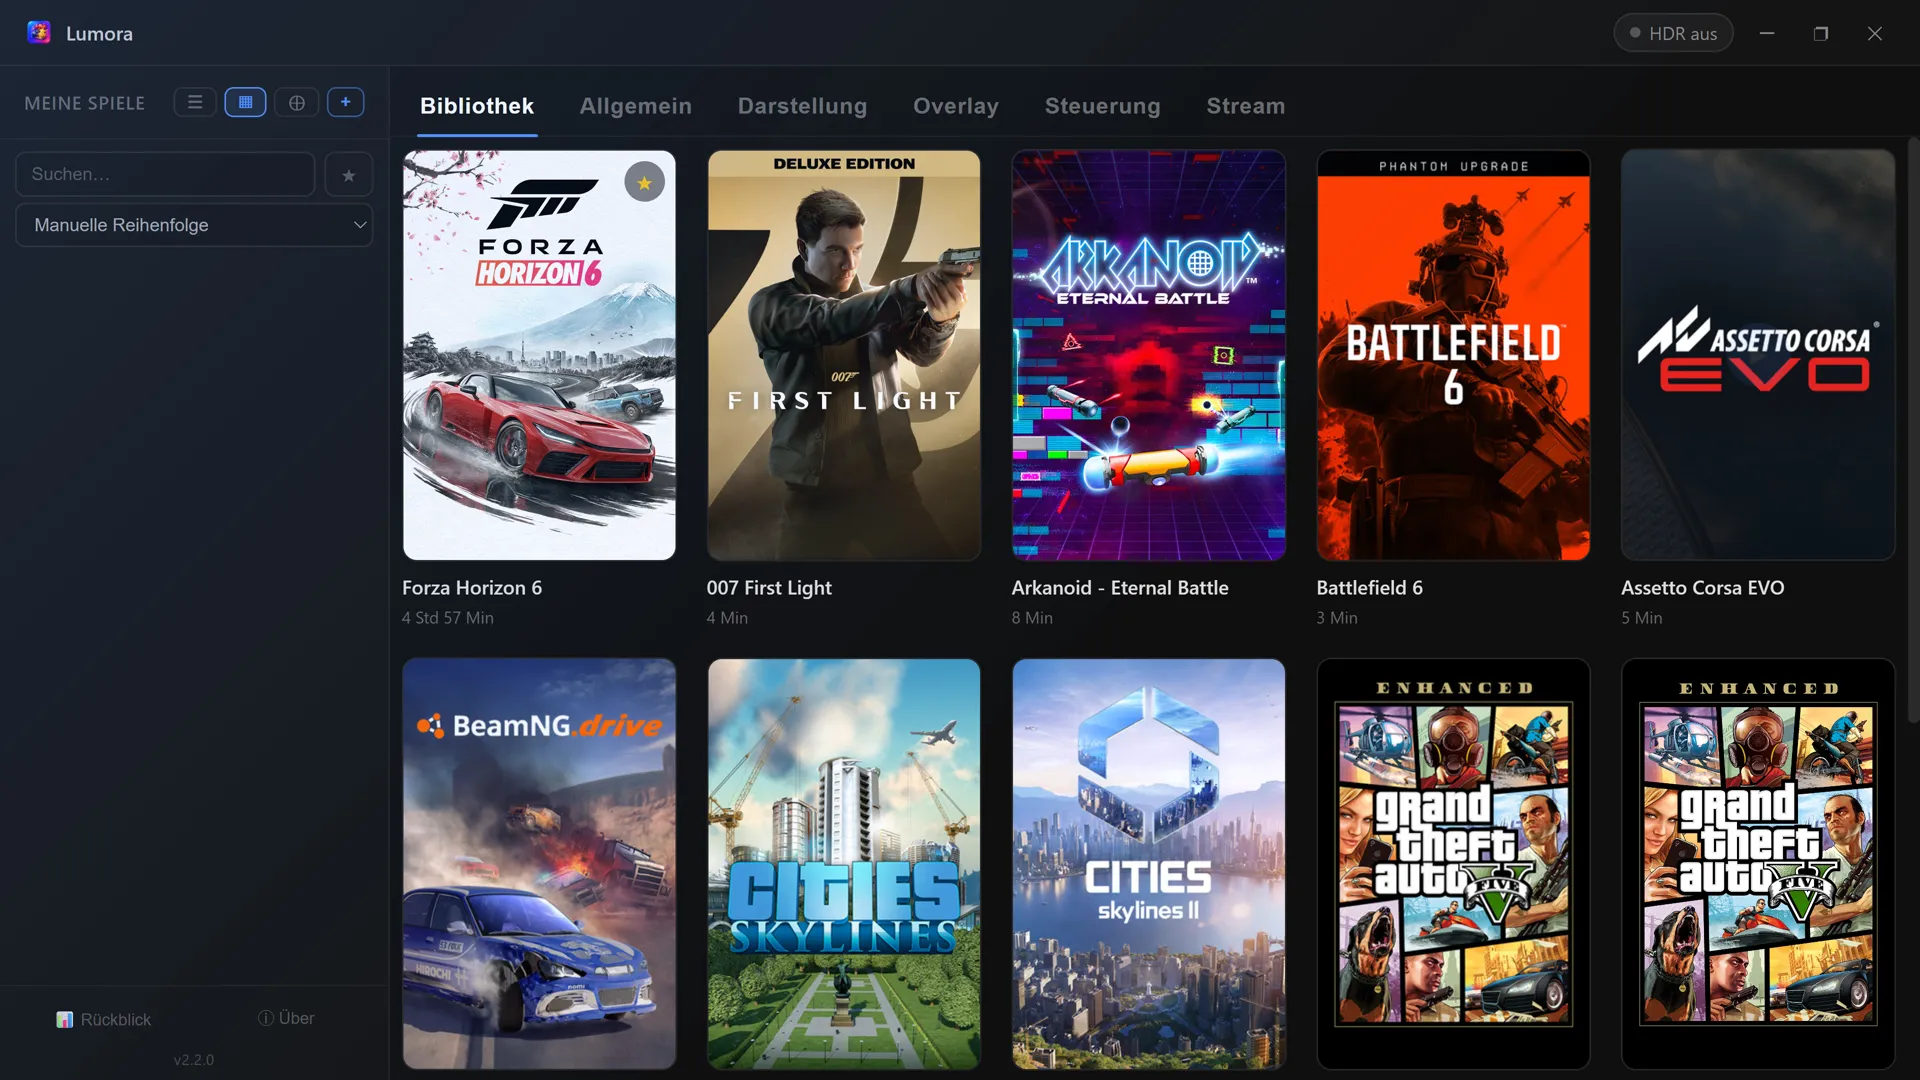
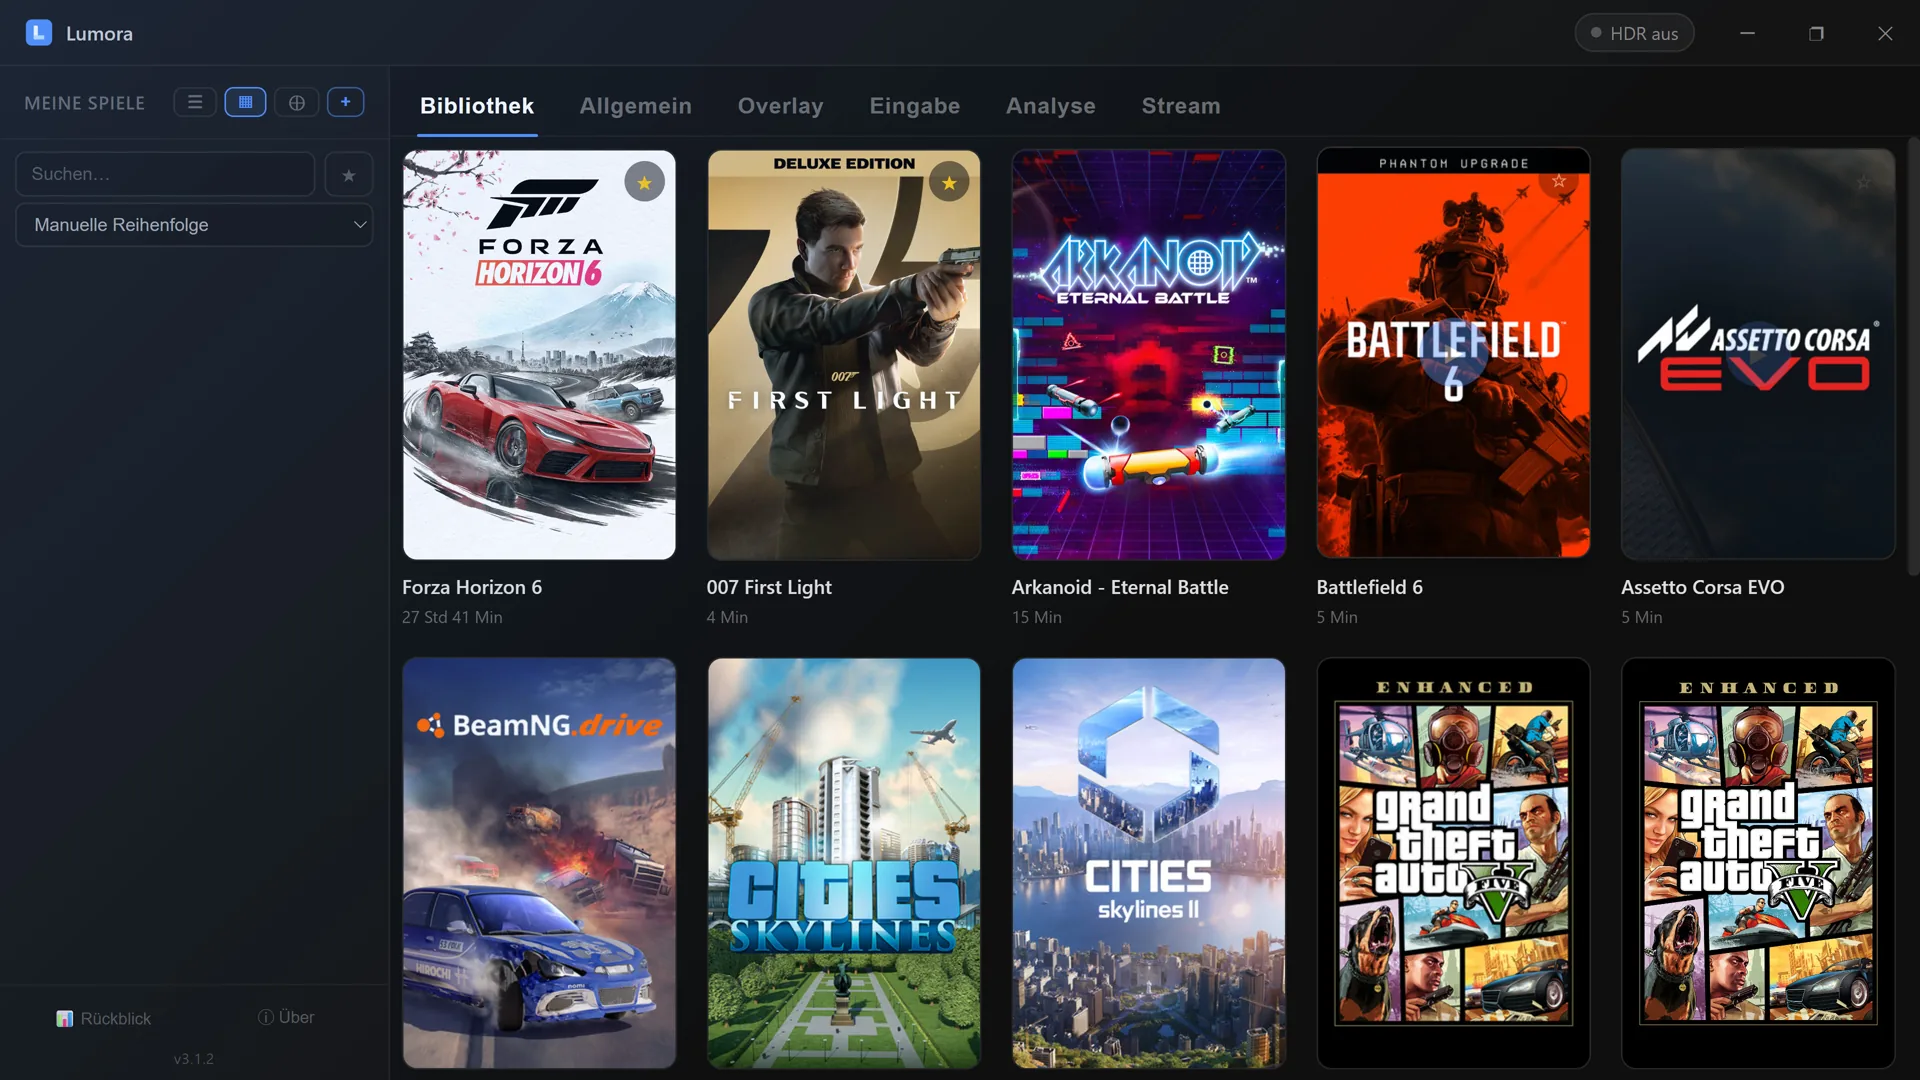
Website: alle Screenshots gegen aktuelle (3.1.2) ausgetauscht
Quellen: Lumora_neue_screenshots/, 3840x2160 -> 1920 breit als WebP
(ffmpeg/libwebp, Qualitaet 82). Dateigroessen bleiben im Rahmen der
bisherigen (136-262 KB).

Zuordnung:
  1.webp            <- 1.jpg    Listenansicht
  2.webp            <- 2.jpg    Cover-Ansicht
  3.webp            <- osd.jpg  Gaming-OSD, jetzt ueber einem LAUFENDEN
                                Spiel statt ueber der Bibliothek
  stream.webp       <- 6.jpg    Stream-Tab mit Live-Vorschau
  stream-stats.webp <- 7.jpg    Stream-Statistik
  analyse.webp      <- 5.jpg    Analyse-Bericht (NEU, fuellt den seit
                                der Seitenerstellung offenen Platzhalter
                                auf ruckler-analyse.html DE+EN)
  screenshot.png    <- 1.jpg    Vorschaubild fuer geteilte Links

Mitgezogen, weil die neuen Bilder durchgehend 16:9 sind (die alten
waren teils beschnitten):
- Bildmasse im HTML: 1079->1080 (Startseite), 1252/1254->1080
  (Streaming-Seite) - sonst haette der Platzhalter beim Laden
  gesprungen.
- og:image-Masse 2799x2130 -> 1200x676; das alte Vorschaubild hatte ein
  ungewoehnliches 1.31:1-Format, das neue passt zur ueblichen Kachel.
- OSD-Bildunterschrift und Alt-Text: "hier ueber der Bibliothek" stimmte
  nicht mehr, das neue Bild zeigt ein echtes Spiel (DE+EN).

Verifiziert im Browser gegen einen lokalen Server: alle sieben Dateien
liefern 200, alle Bildverweise auf Start-, Streaming- und Ruckler-Seite
[…]

diff --git a/website/index.html b/website/index.html
@@ -47,8 +47,8 @@
 
   <!-- og:image -->
   <meta property="og:image"        content="https://lumora-streaming.de/screenshot.png">
-  <meta property="og:image:width"  content="2799">
-  <meta property="og:image:height" content="2130">
+  <meta property="og:image:width"  content="1200">
+  <meta property="og:image:height" content="676">
   <meta property="og:image:alt"    content="Lumora – Spiele-Launcher mit Gaming-OSD und Streaming">
 
   <!-- Schema.org – SoftwareApplication (wird von Google als Rich Result angezeigt) -->
@@ -827,7 +827,7 @@
       </button>
     </div>
     <div class="screenshot-wrap" onclick="openLightbox()">
-      <img id="shot" src="1.webp" width="1920" height="1079" decoding="async" alt="Lumora Game-Launcher – Listenansicht mit allen Spielen aus Steam, Epic, GOG &amp; Co., HDR-Schalter und Game-Streaming" class="screenshot-img">
+      <img id="shot" src="1.webp" width="1920" height="1080" decoding="async" alt="Lumora Game-Launcher – Listenansicht mit allen Spielen aus Steam, Epic, GOG &amp; Co., HDR-Schalter und Game-Streaming" class="screenshot-img">
     </div>
     <p class="view-caption" id="viewCaption">Listenansicht – Details, Beschreibung &amp; HDR-Schalter pro Spiel</p>
     <p class="screenshot-tap-hint">Tippen zum Vergrößern</p>
@@ -1693,7 +1693,7 @@
   const VIEWS = {
     list:  { img: '1.webp', alt: 'Lumora – Listenansicht', cap: 'Listenansicht – Details, Beschreibung &amp; HDR-Schalter pro Spiel' },
     cover: { img: '2.webp', alt: 'Lumora – Cover-Ansicht', cap: 'Cover-Ansicht – deine Bibliothek als Raster aus Spiel-Covern' },
-    osd:   { img: '3.webp', alt: 'Lumora – Gaming-OSD mit GPU-, CPU- und FPS-Werten', cap: 'Gaming-OSD – GPU, CPU &amp; FPS live über dem Spiel, hier über der Bibliothek (echte Werte)' },
+    osd:   { img: '3.webp', alt: 'Lumora – Gaming-OSD mit GPU-, CPU- und FPS-Werten über einem laufenden Spiel', cap: 'Gaming-OSD – GPU, CPU &amp; FPS live über dem laufenden Spiel (echte Werte)' },
     streaming: { img: 'stream.webp', alt: 'Lumora – Stream-Tab mit Live-Vorschau, Teilen-Link und „Freunde dazuholen"', cap: 'Stream-Tab – Live-Vorschau, Link teilen &amp; „Freunde dazuholen"' }
   };
   function setView(v) {

diff --git a/website/streaming.html b/website/streaming.html
@@ -176,7 +176,7 @@
     <a class="cta" href="download.php">⬇ Lumora kostenlos laden</a>
     <p class="muted">Für Windows 10 &amp; 11 · keine Registrierung · Open Source</p>
 
-    <img class="shot" src="stream.webp" width="1920" height="1252" decoding="async" alt="Lumora Stream-Tab: Live-Vorschau des Spiels, Teilen-Link und „Freunde dazuholen" beim Teilen des Bildschirms">
+    <img class="shot" src="stream.webp" width="1920" height="1080" decoding="async" alt="Lumora Stream-Tab: Live-Vorschau des Spiels, Teilen-Link und „Freunde dazuholen" beim Teilen des Bildschirms">
 
     <h2>So einfach geht's</h2>
     <ol class="steps">
@@ -199,7 +199,7 @@
 
     <h2>Nach dem Stream: deine Zahlen</h2>
     <p>Sobald du den Stream beendest, zeigt Lumora dir eine kurze Zusammenfassung: wie lange du live warst, wie viele Leute zugeschaut haben, wie viele Videodaten übertragen wurden und mit welcher Qualität du gestreamt hast.</p>
-    <img class="shot" src="stream-stats.webp" width="1920" height="1254" loading="lazy" decoding="async" alt="Lumora Stream-Statistik nach dem Beenden: Dauer, Zuschauer gleichzeitig und gesamt, übertragene Videodaten, durchschnittliche Bitrate und Qualität">
+    <img class="shot" src="stream-stats.webp" width="1920" height="1080" loading="lazy" decoding="async" alt="Lumora Stream-Statistik nach dem Beenden: Dauer, Zuschauer gleichzeitig und gesamt, übertragene Videodaten, durchschnittliche Bitrate und Qualität">
 
     <h2>Gruppen: Zockt zusammen, schaut euch gegenseitig zu</h2>
     <p>Ein Klick auf „Freunde dazuholen" am laufenden Stream erstellt die Gruppe und kopiert den Einladungslink. Wer ihn mit Lumora öffnet, ist per „Mit Lumora mitstreamen" sofort dabei – der eigene Stream startet automatisch mit, und eigene Rechner im selben Netzwerk erkennen die Gruppe sogar ganz von selbst. Kein Code-Abtippen. Wer keinen PC hat, öffnet denselben Link im Browser (funktioniert auch auf dem iPhone) und sieht alle Streams gleichzeitig im Raster: Vollbild oder Spotlight per Klick, Ton und Lautstärke pro Person, das ganze Grid als Bild-in-Bild, Live-Statistik zuschaltbar. Die Gruppe hängt an niemandem – wer geht, geht; für alle anderen läuft alles ununterbrochen weiter.</p>

diff --git a/website/en/index.html b/website/en/index.html
@@ -34,8 +34,8 @@
 
   <!-- og:image -->
   <meta property="og:image"        content="https://lumora-streaming.de/screenshot.png">
-  <meta property="og:image:width"  content="2799">
-  <meta property="og:image:height" content="2130">
+  <meta property="og:image:width"  content="1200">
+  <meta property="og:image:height" content="676">
   <meta property="og:image:alt"    content="Lumora – game launcher with gaming OSD and streaming">
 
   <!-- Schema.org – SoftwareApplication (wird von Google als Rich Result angezeigt) -->
@@ -814,7 +814,7 @@
       </button>
     </div>
     <div class="screenshot-wrap" onclick="openLightbox()">
-      <img id="shot" src="../1.webp" width="1920" height="1079" decoding="async" alt="Lumora game launcher – list view with all games from Steam, Epic, GOG &amp; more, HDR toggle and game streaming" class="screenshot-img">
+      <img id="shot" src="../1.webp" width="1920" height="1080" decoding="async" alt="Lumora game launcher – list view with all games from Steam, Epic, GOG &amp; more, HDR toggle and game streaming" class="screenshot-img">
     </div>
     <p class="view-caption" id="viewCaption">List view – details, description &amp; per-game HDR toggle</p>
     <p class="screenshot-tap-hint">Tap to enlarge</p>
@@ -1664,7 +1664,7 @@
   const VIEWS = {
     list:  { img: '../1.webp', alt: 'Lumora – Listenansicht', cap: 'List view – details, description &amp; per-game HDR toggle' },
     cover: { img: '../2.webp', alt: 'Lumora – Cover view', cap: 'Cover view – your library as a grid of game covers' },
-    osd:   { img: '../3.webp', alt: 'Lumora – Gaming OSD with GPU, CPU and FPS values', cap: 'Gaming OSD – GPU, CPU &amp; FPS live over the game, here over the library (real values)' },
+    osd:   { img: '../3.webp', alt: 'Lumora – Gaming OSD with GPU, CPU and FPS values over a running game', cap: 'Gaming OSD – GPU, CPU &amp; FPS live over the running game (real values)' },
     streaming: { img: '../stream.webp', alt: 'Lumora – Stream tab with live preview, share link and “Invite friends”', cap: 'Stream tab – live preview, share link &amp; “Invite friends”' }
   };
   function setView(v) {

diff --git a/website/en/streaming.html b/website/en/streaming.html
@@ -177,7 +177,7 @@
     <a class="cta" href="../download.php">⬇ Download Lumora for free</a>
     <p class="muted">For Windows 10 &amp; 11 · no registration · open source</p>
 
-    <img class="shot" src="../stream.webp" width="1920" height="1252" decoding="async" alt="Lumora stream tab: live game preview, share link and “Invite friends” while sharing your screen">
+    <img class="shot" src="../stream.webp" width="1920" height="1080" decoding="async" alt="Lumora stream tab: live game preview, share link and “Invite friends” while sharing your screen">
 
     <h2>How it works</h2>
     <ol class="steps">
@@ -200,7 +200,7 @@
 
     <h2>After the stream: your numbers</h2>
     <p>As soon as you end the stream, Lumora shows you a short summary: how long you were live, how many people watched, how much video data was transferred and what quality you streamed at.</p>
-    <img class="shot" src="../stream-stats.webp" width="1920" height="1254" loading="lazy" decoding="async" alt="Lumora stream summary after finishing: duration, concurrent and total viewers, video data transferred, average bitrate and quality">
+    <img class="shot" src="../stream-stats.webp" width="1920" height="1080" loading="lazy" decoding="async" alt="Lumora stream summary after finishing: duration, concurrent and total viewers, video data transferred, average bitrate and quality">
 
     <h2>Groups: play together, watch each other</h2>
     <p>One click on “Invite friends” on a running stream creates the group and copies the invite link. Anyone opening it with Lumora joins instantly via “Join with Lumora” – their own stream starts along automatically, and your own PCs on the same network even detect the group by themselves. No typing codes. Anyone without a PC opens the same link in a browser (works on iPhone too) and sees all streams side by side in a grid: fullscreen or spotlight per click, audio and volume per person, the whole grid as picture-in-picture, live stats on demand. The group doesn't depend on anyone – whoever leaves, leaves; everything keeps running for everyone else.</p>

diff --git a/website/ruckler-analyse.html b/website/ruckler-analyse.html
@@ -123,6 +123,8 @@
       font-family: 'Consolas', monospace; font-size: .95rem; line-height: 1.55; }
     .verdict b { color: #fff; }
     .verdict .sub { display: block; opacity: .65; font-size: .85rem; margin-top: 4px; }
+    .shot { display: block; width: 100%; height: auto; border-radius: 14px; border: 1px solid var(--border); margin: 22px 0 8px; }
+    .shot-cap { font-size: .88rem; opacity: .6; margin: 0 0 26px; text-align: center; }
   </style>
 </head>
 <body>
@@ -160,8 +162,9 @@
     <a class="cta" href="download.php">⬇ Lumora kostenlos laden</a>
     <p class="muted">Für Windows 10 &amp; 11 · NVIDIA, AMD &amp; Intel · Open Source</p>
 
-    <!-- SCREENSHOTS: hier kommen später (a) das Analyse-Overlay im Spiel und
-         (b) der fertige Bericht mit Urteil + Kurve rein. -->
+    <img class="shot" src="analyse.webp" width="1920" height="1080" loading="lazy" decoding="async"
+         alt="Lumora Ruckler-Analyse: Bericht mit Klartext-Urteil „Sauberer Lauf", Kennzahlen (Ø FPS, 1%-Low, Ruckler pro Minute), Frametime-Kurve und Flaschenhals-Einschätzung">
+    <p class="shot-cap">Der Bericht nach einer Messung: Klartext-Urteil, Kennzahlen, Frametime-Kurve und Flaschenhals-Einschätzung.</p>
 
     <h2>So läuft eine Analyse ab</h2>
     <div class="card">

diff --git a/website/en/ruckler-analyse.html b/website/en/ruckler-analyse.html
@@ -123,6 +123,8 @@
       font-family: 'Consolas', monospace; font-size: .95rem; line-height: 1.55; }
     .verdict b { color: #fff; }
     .verdict .sub { display: block; opacity: .65; font-size: .85rem; margin-top: 4px; }
+    .shot { display: block; width: 100%; height: auto; border-radius: 14px; border: 1px solid var(--border); margin: 22px 0 8px; }
+    .shot-cap { font-size: .88rem; opacity: .6; margin: 0 0 26px; text-align: center; }
   </style>
 </head>
 <body>
@@ -160,7 +162,9 @@
     <a class="cta" href="../download.php">⬇ Download Lumora for free</a>
     <p class="muted">For Windows 10 &amp; 11 · NVIDIA, AMD &amp; Intel · Open source</p>
 
-    <!-- SCREENSHOTS: (a) analysis overlay in-game and (b) finished report go here later. -->
+    <img class="shot" src="../analyse.webp" width="1920" height="1080" loading="lazy" decoding="async"
+         alt="Lumora stutter analysis: report with a plain-language verdict “Clean run”, key figures (avg FPS, 1% low, stutters per minute), frame time graph and bottleneck assessment">
+    <p class="shot-cap">The report after a measurement: plain-language verdict, key figures, frame time graph and bottleneck assessment.</p>
 
     <h2>How an analysis works</h2>
     <div class="card">
